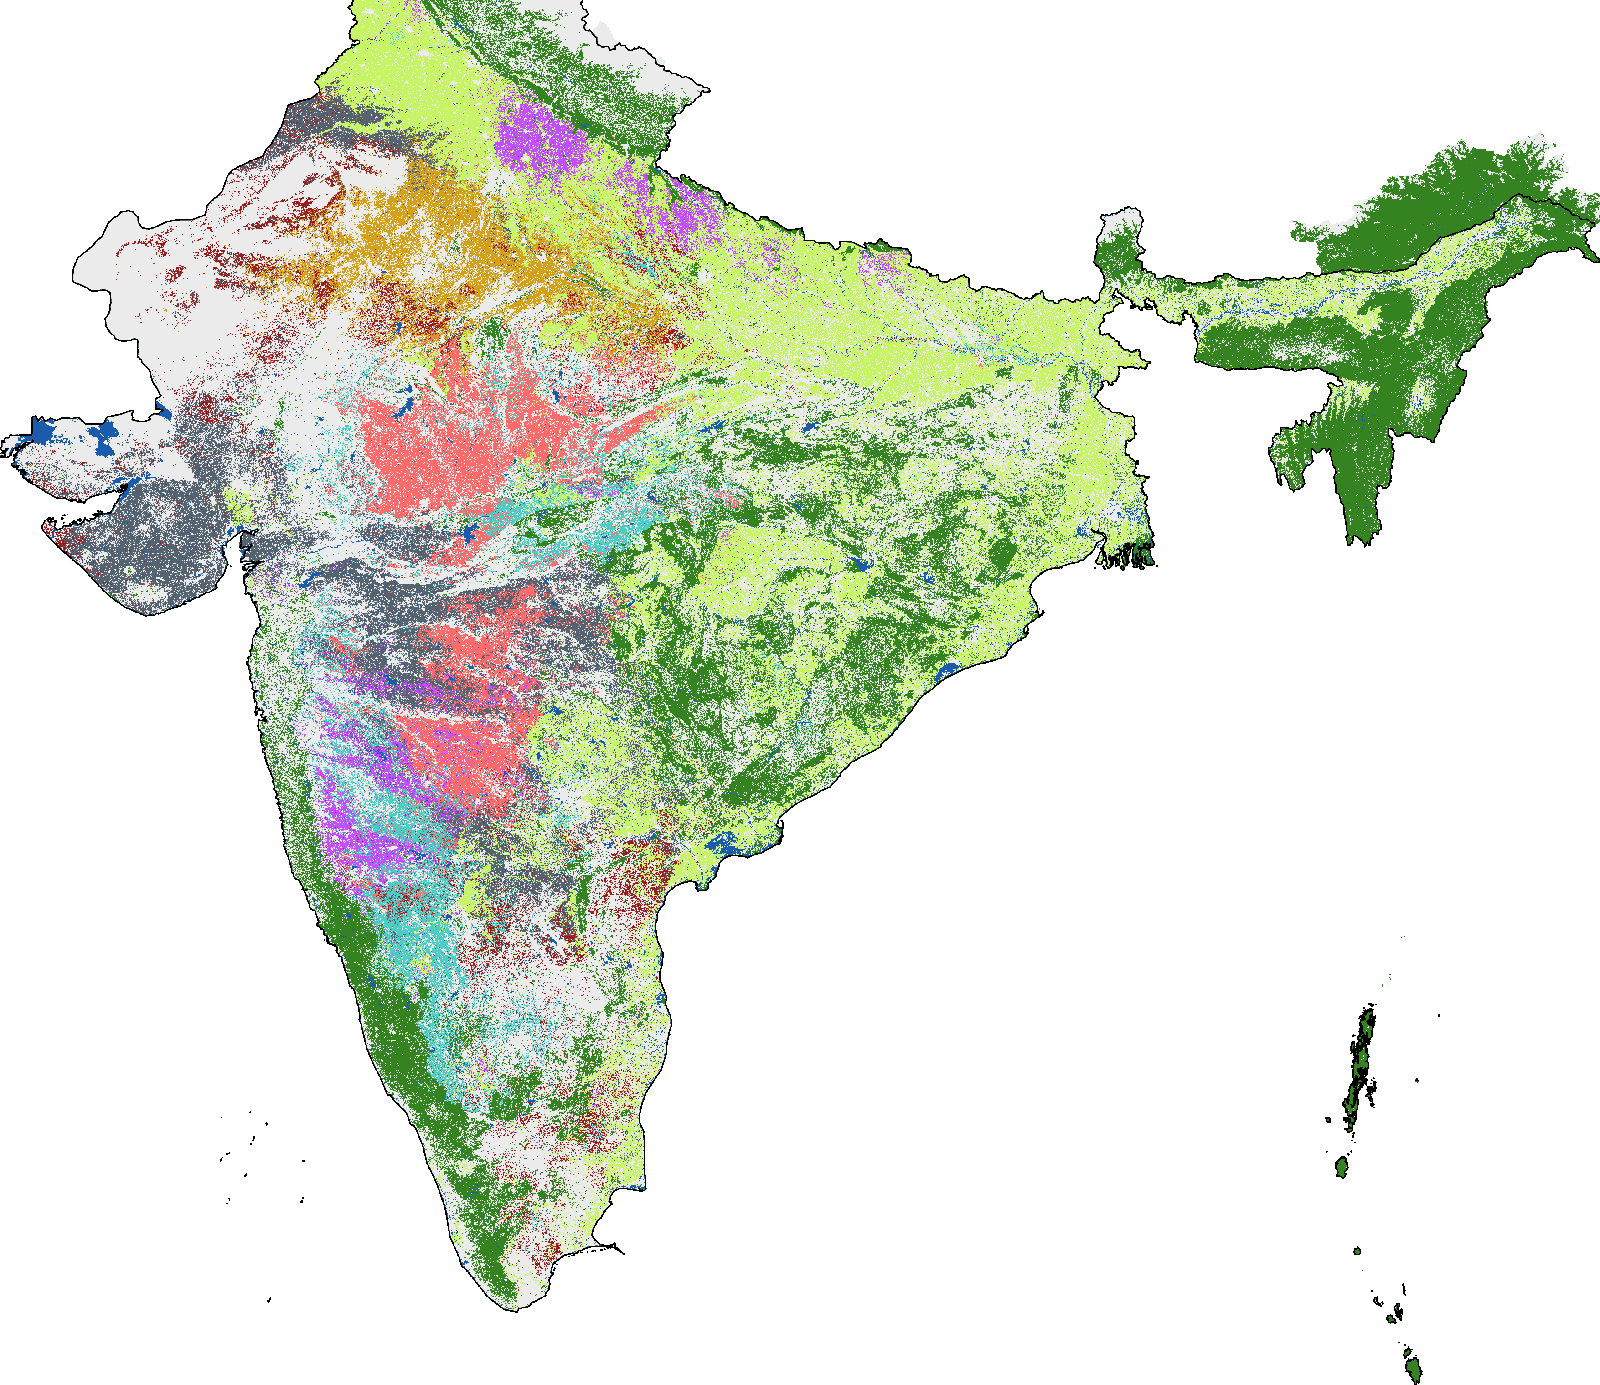
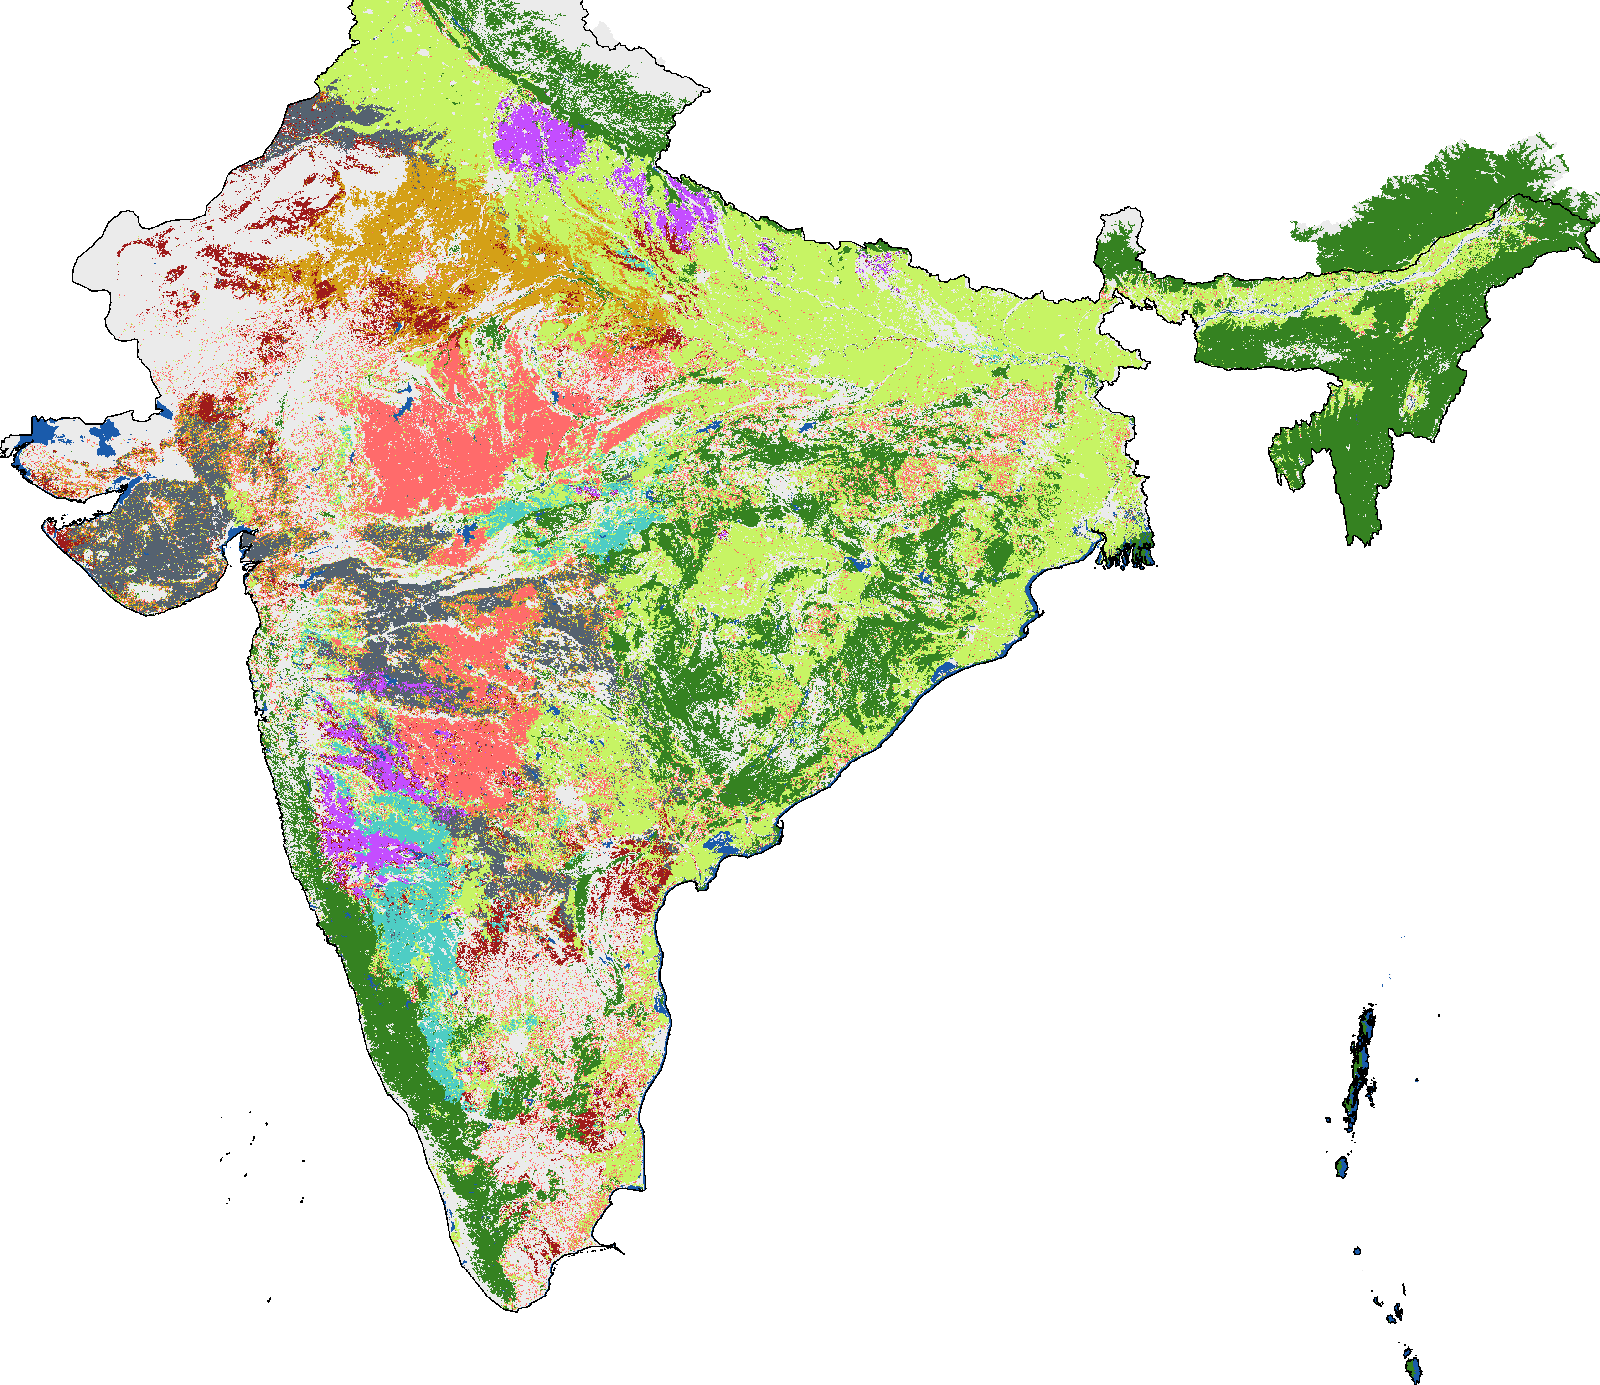
Home/India map: latest v3 crop map; link to new map viewer

Changed region(s): [[0.0, 0.0, 1.0, 0.9625], [0.7812, 0.3105, 0.8125, 0.3415]]

diff --git a/india-crop-map.html b/india-crop-map.html
@@ -24,7 +24,7 @@
 <main id="main" tabindex="-1">
 <article class="page"><div class="wrap">
 <a class="back" href="work.html">← Work</a>
-<div class="prose-col"><p class="eyebrow"><span>MIT Earth Intelligence Lab</span><span class="sr-only"> · </span><span>2023–now</span><span class="sr-only"> · </span><span>Manuscript in preparation</span></p><h1>A 10&nbsp;m crop map of India from street-level imagery and vision-language-model labels</h1><p class="lede">Gemini 3.1 Pro annotates street-level imagery in place of field surveys, and its labels supervise a classifier on foundation-model embeddings to map India at 10&nbsp;m.</p><p class="authors"><b>J.&nbsp;Laguarta Soler</b>, S.&nbsp;Cheng, E.&nbsp;Liao, S.&nbsp;Wang&nbsp;· first&nbsp;author</p><p class="tags"><span class="sr-only">Skills: </span><span>VLM-as-annotator</span><span class="sr-only">, </span><span>Cross-modal distillation</span><span class="sr-only">, </span><span>Foundation-model embeddings</span><span class="sr-only">, </span><span>Country-scale inference</span></p><div class="actions"><a class="btn primary" href="https://crop-map-app-7b3sk7bh4q-ue.a.run.app/" target="_blank" rel="noopener">Interactive demo (five-crop version)</a></div></div>
+<div class="prose-col"><p class="eyebrow"><span>MIT Earth Intelligence Lab</span><span class="sr-only"> · </span><span>2023–now</span><span class="sr-only"> · </span><span>Manuscript in preparation</span></p><h1>A 10&nbsp;m crop map of India from street-level imagery and vision-language-model labels</h1><p class="lede">Gemini 3.1 Pro annotates street-level imagery in place of field surveys, and its labels supervise a classifier on foundation-model embeddings to map India at 10&nbsp;m.</p><p class="authors"><b>J.&nbsp;Laguarta Soler</b>, S.&nbsp;Cheng, E.&nbsp;Liao, S.&nbsp;Wang&nbsp;· first&nbsp;author</p><p class="tags"><span class="sr-only">Skills: </span><span>VLM-as-annotator</span><span class="sr-only">, </span><span>Cross-modal distillation</span><span class="sr-only">, </span><span>Foundation-model embeddings</span><span class="sr-only">, </span><span>Country-scale inference</span></p><div class="actions"><a class="btn primary" href="https://cropmap-7b3sk7bh4q-ue.a.run.app/" target="_blank" rel="noopener">Interactive map viewer</a></div></div>
 <figure class="figwide"><div class="frame"><div class="zone">
 <canvas id="indiamap" data-cropmap data-src="assets/india-map.png" width="1600" height="1385" role="img" aria-label="Crop-type map of India at 10 m, Kharif (monsoon) 2023: seven crops and non-cropland, with trees and water. Use the crop buttons to show one class."></canvas>
 <div><p class="figtitle">Mapped vs. official crop area: <span style="white-space:nowrap">r = 0.60–0.96</span></p><p class="figsub">Pearson r across districts. Select a crop to show it on the map.</p>

diff --git a/index.html b/index.html
@@ -37,7 +37,7 @@
   <figure class="mapfig herofig">
     <a class="maplink" href="india-crop-map.html" aria-label="Crop-type map of India at 10 m, 2023 monsoon season: open the project page"><canvas id="homemap" data-cropmap data-src="assets/india-map.png" width="1600" height="1385" role="img" aria-label="Crop-type map of India at 10 m, 2023 monsoon season: rice, soybean, cotton, maize, millets, pulses and sugarcane, with trees and water."></canvas></a>
     <ul class="legend" data-legend-for="homemap" aria-label="Show one class on the map"></ul>
-    <figcaption class="cap">Crop types across India at 10&nbsp;m, 2023 monsoon season. <a href="india-crop-map.html" style="white-space:nowrap">About this map&nbsp;→</a><span aria-hidden="true"> · </span><a href="https://crop-map-app-7b3sk7bh4q-ue.a.run.app/" target="_blank" rel="noopener" style="white-space:nowrap">Try the demo&nbsp;↗</a></figcaption>
+    <figcaption class="cap">Crop types across India at 10&nbsp;m, 2023 monsoon season. <a href="india-crop-map.html" style="white-space:nowrap">About this map&nbsp;→</a><span aria-hidden="true"> · </span><a href="https://cropmap-7b3sk7bh4q-ue.a.run.app/" target="_blank" rel="noopener" style="white-space:nowrap">Try the demo&nbsp;↗</a></figcaption>
   </figure>
 </div></section>
 
